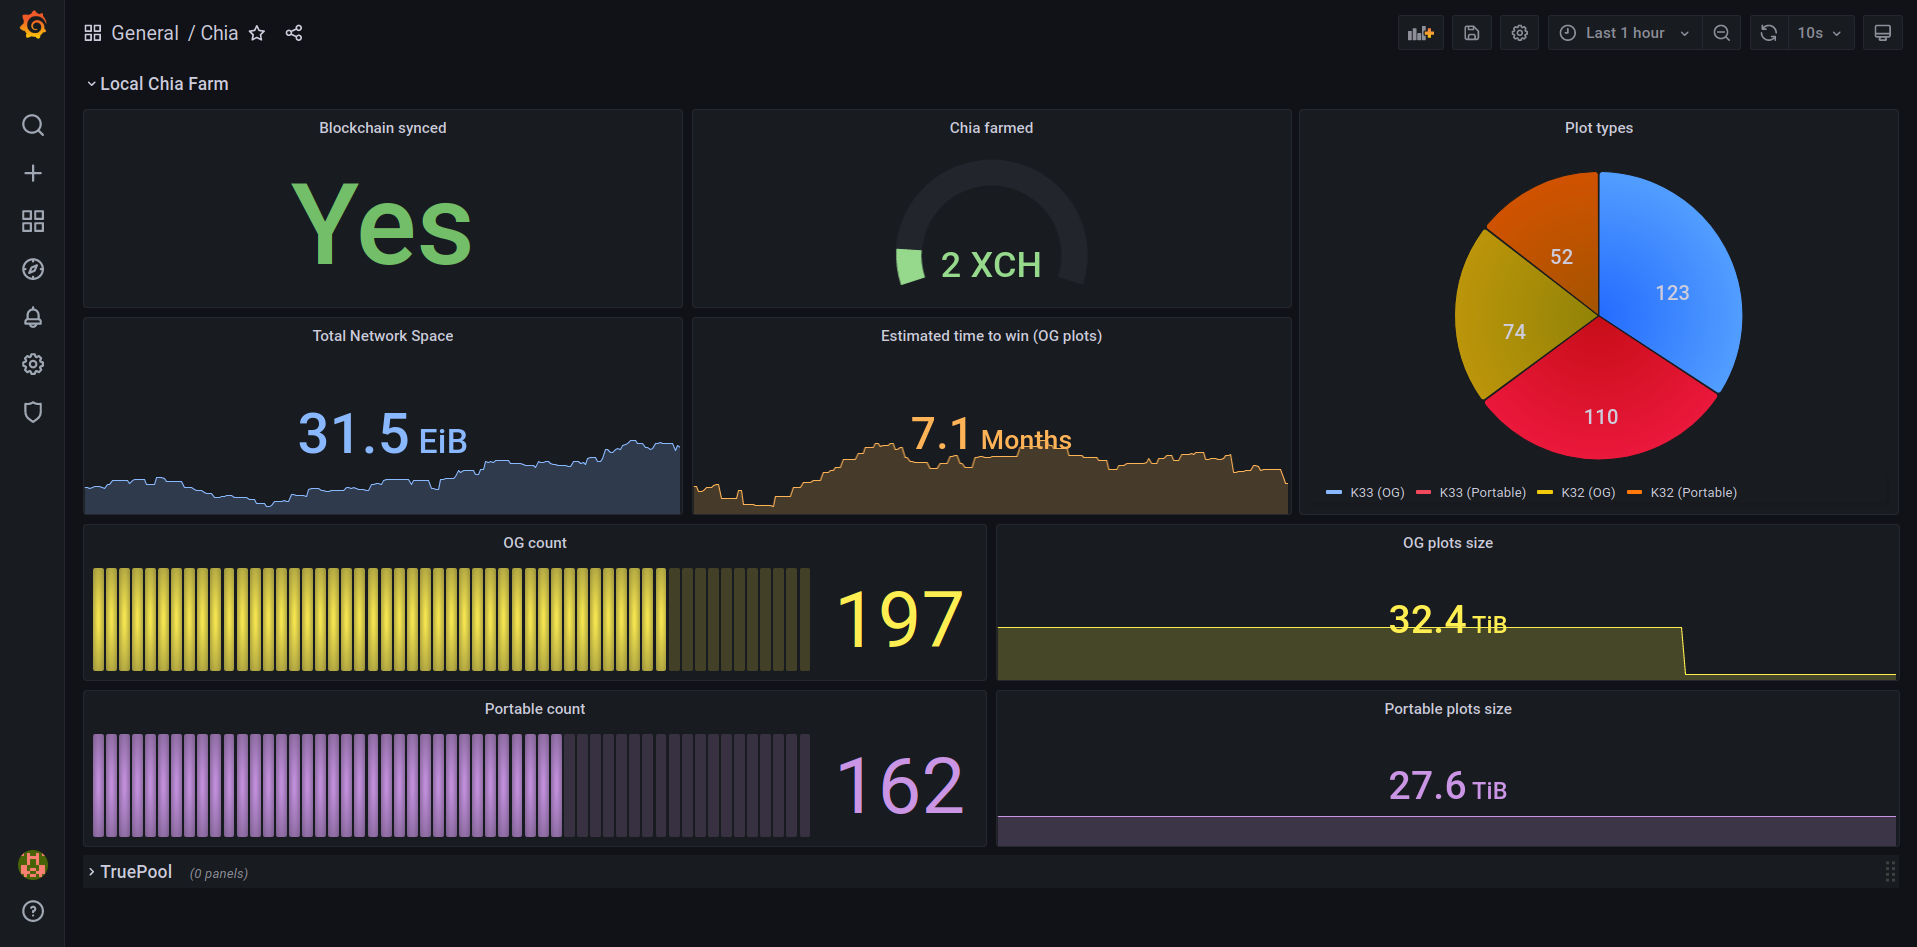
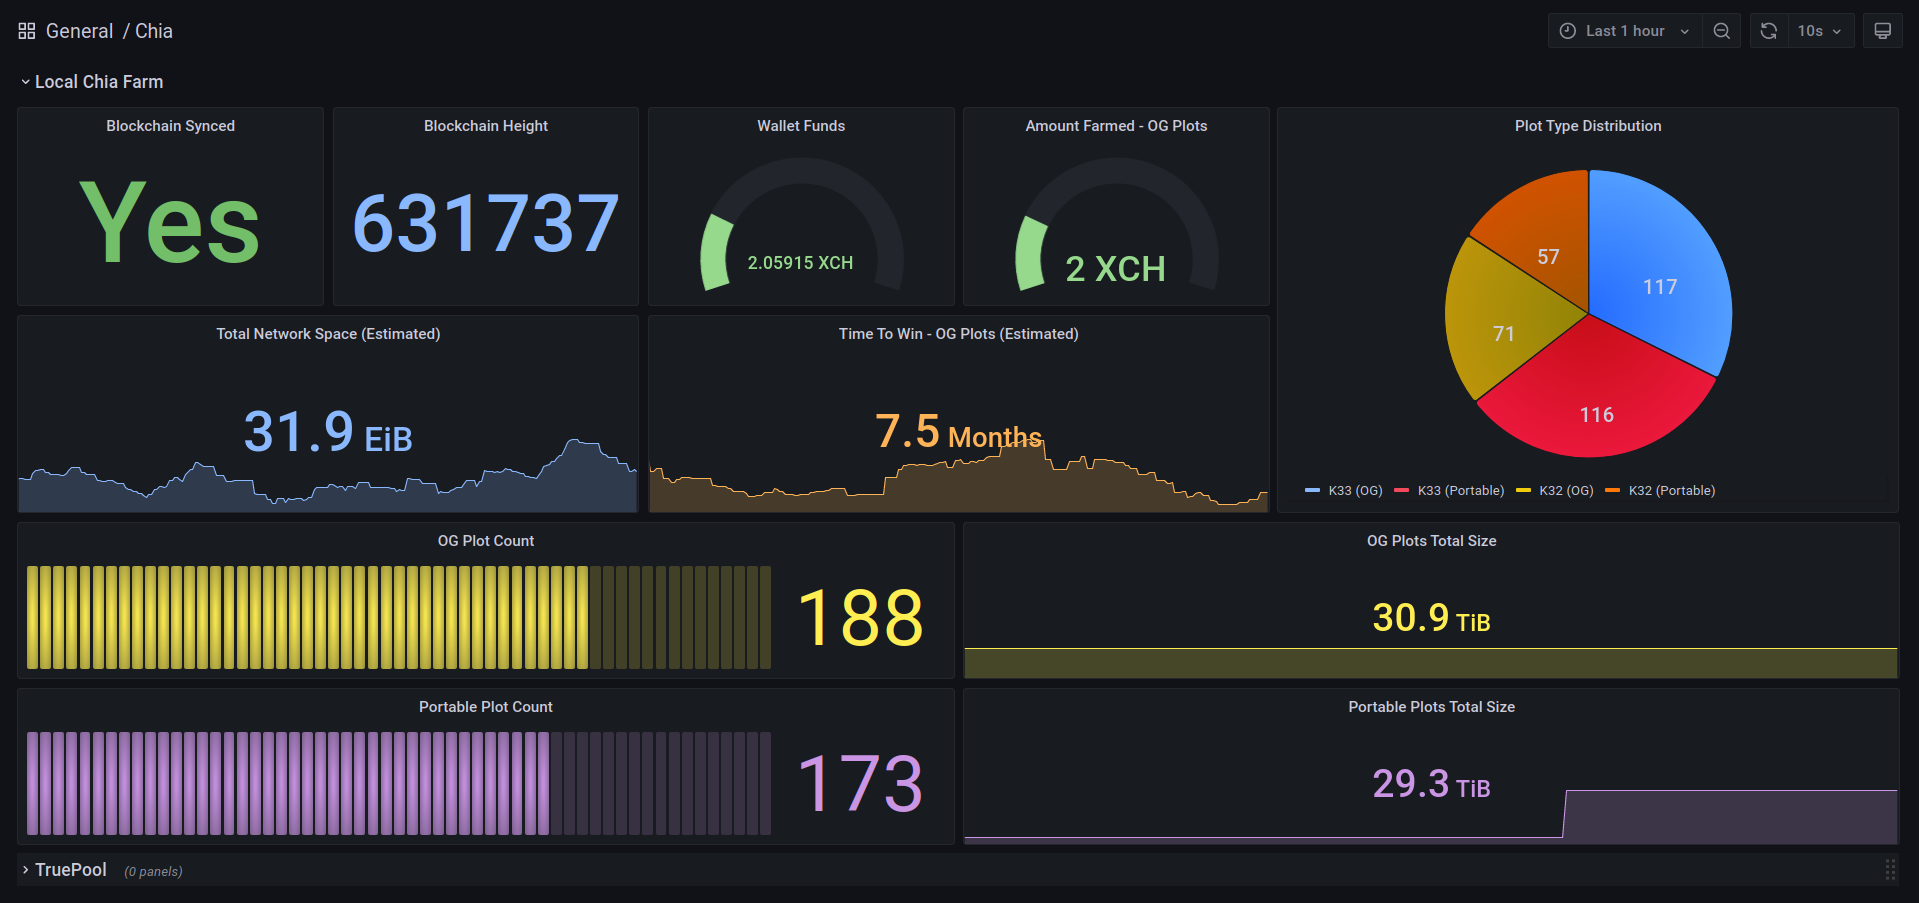
Revised threading (one per model) + watchdog, minor fixes and dashboard improvements

diff --git a/scripts/chiatter.py b/scripts/chiatter.py
@@ -1,8 +1,8 @@
 #!/usr/bin/env python3
 '''
 @author: Winter Snowfall
-@version: 1.00
-@date: 26/07/2021
+@version: 1.10
+@date: 27/07/2021
 
 Warning: Built for use with python 3.6+
 '''
@@ -16,12 +16,18 @@ import signal
 import threading
 import asyncio
 import os
+#uncomment for debugging purposes only
+import traceback
 
 ##global parameters init
 configParser = ConfigParser()
 
 ##conf file block
 conf_file_full_path = os.path.join('..', 'conf', 'chiatter.conf')
+
+watchdog_counter = 0
+chia_stats_error_counter = 0
+truepool_stats_error_counter = 0
 
 # Prometheus client metrics
 
@@ -36,8 +42,10 @@ chia_stats_plots_k32_portable = Gauge('chia_stats_plots_k32_portable', 'Number o
 chia_stats_plots_k33_portable = Gauge('chia_stats_plots_k33_portable', 'Number of portable k33 plots')
 chia_stats_total_size = Gauge('chia_stats_total_size', 'Total network space')
 chia_stats_chia_farmed = Gauge('chia_stats_chia_farmed', 'XCH farmed')
-chia_stats_ttw = Gauge('chia_stats_ttw', 'OG time to win')
+chia_stats_og_time_to_win = Gauge('chia_stats_og_time_to_win', 'OG time to win')
 chia_stats_sync_status = Gauge('chia_stats_sync_status', 'Blockchain synced status')
+chia_stats_current_height = Gauge('chia_stats_current_height', 'Current blockchain height')
+chia_stats_wallet_funds = Gauge('chia_stats_wallet_funds', 'Funds present in the main chia wallet')
 #--------------------------------------------------------------------------------
 
 #---------------------- truepool ------------------------------------------------
@@ -49,7 +57,45 @@ def sigterm_handler(signum, frame):
     raise SystemExit(0)
 
 def http_server():
-    start_http_server(8080)
+    start_http_server(PROMETHEUS_CLIENT_PORT)
+    
+def chia_stats_worker(loop):
+    global chia_stats_error_counter
+    
+    while True:
+        try:
+            chia_stats_inst.clear_stats()
+                    
+            #you'll have to excuse me here, but I simply h8 asyncio
+            coroutine = chia_stats_inst.collect_stats()
+            loop.run_until_complete(coroutine)
+            
+            chia_stats_og_count.set(chia_stats_inst.og_count)
+            chia_stats_og_size.set(chia_stats_inst.og_size)
+            chia_stats_portable_count.set(chia_stats_inst.portable_count)
+            chia_stats_portable_size.set(chia_stats_inst.portable_size)
+            chia_stats_plots_k32_og.set(chia_stats_inst.plots_k32_og)
+            chia_stats_plots_k33_og.set(chia_stats_inst.plots_k33_og)
+            chia_stats_plots_k32_portable.set(chia_stats_inst.plots_k32_portable)
+            chia_stats_plots_k33_portable.set(chia_stats_inst.plots_k33_portable)
+            chia_stats_total_size.set(chia_stats_inst.total_size)
+            chia_stats_chia_farmed.set(chia_stats_inst.chia_farmed)
+            chia_stats_og_time_to_win.set(chia_stats_inst.og_time_to_win)
+            chia_stats_sync_status.set(chia_stats_inst.sync_status)
+            chia_stats_current_height.set(chia_stats_inst.current_height)
+            chia_stats_wallet_funds.set(chia_stats_inst.wallet_funds)
+        except:
+            chia_stats_error_counter += CHIA_STATS_COLLECTION_INTERVAL
+            #uncomment for debugging purposes only
+            print(traceback.format_exc())
+            
+        sleep(CHIA_STATS_COLLECTION_INTERVAL)
+    
+def truepool_stats_worker():
+    global truepool_stats_error_counter
+    
+    #TBD
+    sleep(TRUEPOOL_STATS_COLLECTION_INTERVAL)
 
 if __name__ == '__main__':
     #catch SIGTERM and exit gracefully
@@ -64,17 +110,24 @@ if __name__ == '__main__':
         configParser.read(conf_file_full_path)
         general_section = configParser['GENERAL']
         #parsing generic parameters
-        COLLECTION_INTERVAL_SECONDS = general_section.getint('collection_interval_seconds')
-                
+        PROMETHEUS_CLIENT_PORT = general_section.getint('prometheus_client_port')
+        WATCHDOG_INTERVAL = general_section.getint('watchdog_interval')
+        WATCHDOG_THRESHOLD = general_section.getint('watchdog_threshold')
         modules = general_section.get('modules')
         modules = [module.strip() for module in modules.split(',')]
+        #parse collection intervals conditionally for each module
+        if 'chia_stats' in modules:
+            CHIA_STATS_COLLECTION_INTERVAL = configParser['CHIA_STATS'].getint('collection_interval')
+        if 'truepool_stats' in modules:
+            TRUEPOOL_STATS_COLLECTION_INTERVAL = configParser['TRUEPOOL_STATS'].getint('collection_interval')
+            
     except:
         print('Could not parse configuration file. Please make sure the appropriate structure is in place!')
         raise SystemExit(1)
     
     # Start up the server to expose the metrics.
-    server_thread = threading.Thread(target=http_server, args=(), daemon=True)
-    server_thread.start()
+    http_server_thread = threading.Thread(target=http_server, args=(), daemon=True)
+    http_server_thread.start()
     
     if 'chia_stats' in modules:
         print('*** Loading the chia_stats module ***')
@@ -84,33 +137,21 @@ if __name__ == '__main__':
     print('')
     
 try:
+    if 'chia_stats' in modules:
+        loop = asyncio.get_event_loop()
+        chia_stats_thread = threading.Thread(target=chia_stats_worker, args=((loop,)), daemon=True)
+        chia_stats_thread.start()
+            
+    if 'truepool_stats' in modules:
+        truepool_stats_thread = threading.Thread(target=truepool_stats_worker, args=(), daemon=True)
+        truepool_stats_thread.start()
+            
     while True:
-        if 'chia_stats' in modules:
-            chia_stats_inst.clear_stats()
-                    
-            #you'll have to excuse me here, but I simply h8 asyncio
-            loop = asyncio.get_event_loop()
-            coroutine = chia_stats_inst.collect_stats()
-            loop.run_until_complete(coroutine)
-            
-            chia_stats_og_count.set(chia_stats_inst.og_count)
-            chia_stats_og_size.set(chia_stats_inst.og_size)
-            chia_stats_portable_count.set(chia_stats_inst.portable_count)
-            chia_stats_portable_size.set(chia_stats_inst.portable_size)
-            chia_stats_plots_k32_og.set(chia_stats_inst.plots_k32_og)
-            chia_stats_plots_k33_og.set(chia_stats_inst.plots_k33_og)
-            chia_stats_plots_k32_portable.set(chia_stats_inst.plots_k32_portable)
-            chia_stats_plots_k33_portable.set(chia_stats_inst.plots_k33_portable)
-            chia_stats_total_size.set(chia_stats_inst.total_size)
-            chia_stats_chia_farmed.set(chia_stats_inst.chia_farmed)
-            chia_stats_ttw.set(chia_stats_inst.ttw)
-            chia_stats_sync_status.set(chia_stats_inst.sync_status)
-            
-        if 'truepool_stats' in modules:
-            #TBD
-            pass
-        
-        sleep(COLLECTION_INTERVAL_SECONDS)
+        if chia_stats_error_counter > WATCHDOG_THRESHOLD or truepool_stats_error_counter > WATCHDOG_THRESHOLD:
+            print('The chiatter watchdog has reached its error threshold. Stopping data collection.')
+            raise SystemExit(2)
+        else:
+            sleep(WATCHDOG_INTERVAL)
         
 except KeyboardInterrupt:
     pass

diff --git a/scripts/modules/chia_stats.py b/scripts/modules/chia_stats.py
@@ -1,8 +1,8 @@
 #!/usr/bin/env python3
 '''
 @author: Winter Snowfall
-@version: 1.00
-@date: 26/07/2021
+@version: 1.10
+@date: 27/07/2021
 
 Warning: Built for use with python 3.6+
 '''
@@ -43,7 +43,10 @@ class chia_stats:
     og_size = 0
     portable_size = 0
     sync_status = False
-    total_size = 0  
+    total_size = 0
+    og_time_to_win = 0
+    current_height = 0
+    wallet_funds = 0
     
     def clear_stats(self):
         #note to self - it might make sense to accumulate some stats in 
@@ -58,7 +61,9 @@ class chia_stats:
         self.portable_size = 0
         self.sync_status = False
         self.total_size = 0
-        self.ttw = 0
+        self.og_time_to_win = 0
+        self.current_height = 0
+        self.wallet_funds = 0
     
     async def collect_stats(self):
         logger.info('+++ Starting data collection run +++')
@@ -123,11 +128,11 @@ class chia_stats:
             self.total_size = blockchain['space']
             
             average_block_time = await get_average_block_time(fullnode_port)
-            self.ttw = int((average_block_time) / (self.og_size / self.total_size))
+            self.og_time_to_win = int((average_block_time) / (self.og_size / self.total_size))
             
             logger.debug(f'sync_status: {self.sync_status}')
             logger.debug(f'total_size: {self.total_size}')
-            logger.debug(f'ttw: {self.ttw}')
+            logger.debug(f'og_time_to_win: {self.og_time_to_win}')
             #########################################################
             
             logger.info('Fetching wallet state...')
@@ -135,13 +140,21 @@ class chia_stats:
             farmed_stat = await wallet.get_farmed_amount()
     
             self.chia_farmed = farmed_stat['farmed_amount']
+            self.current_height = await wallet.get_height_info()
+            main_wallet = await wallet.get_wallets()
+            #assume only one wallet exists - might want to alter it in the future
+            main_wallet_balance = await wallet.get_wallet_balance(main_wallet[0]["id"])
+            self.wallet_funds = main_wallet_balance.get('confirmed_wallet_balance')
             
             logger.debug(f'chia_farmed: {self.chia_farmed}')
+            logger.debug(f'current_height: {self.current_height}')
+            logger.debug(f'wallet_funds: {self.wallet_funds}')
             #########################################################          
             
         except:
             #uncomment for debugging purposes only
             logger.error(traceback.format_exc())
+            raise
             
         finally:
             harvester.close()

diff --git a/scripts/modules/truepool_stats.py b/scripts/modules/truepool_stats.py
@@ -1,8 +1,8 @@
 #!/usr/bin/env python3
 '''
 @author: Winter Snowfall
-@version: 1.00
-@date: 26/07/2021
+@version: 1.10
+@date: 27/07/2021
 
 Warning: Built for use with python 3.6+
 '''
